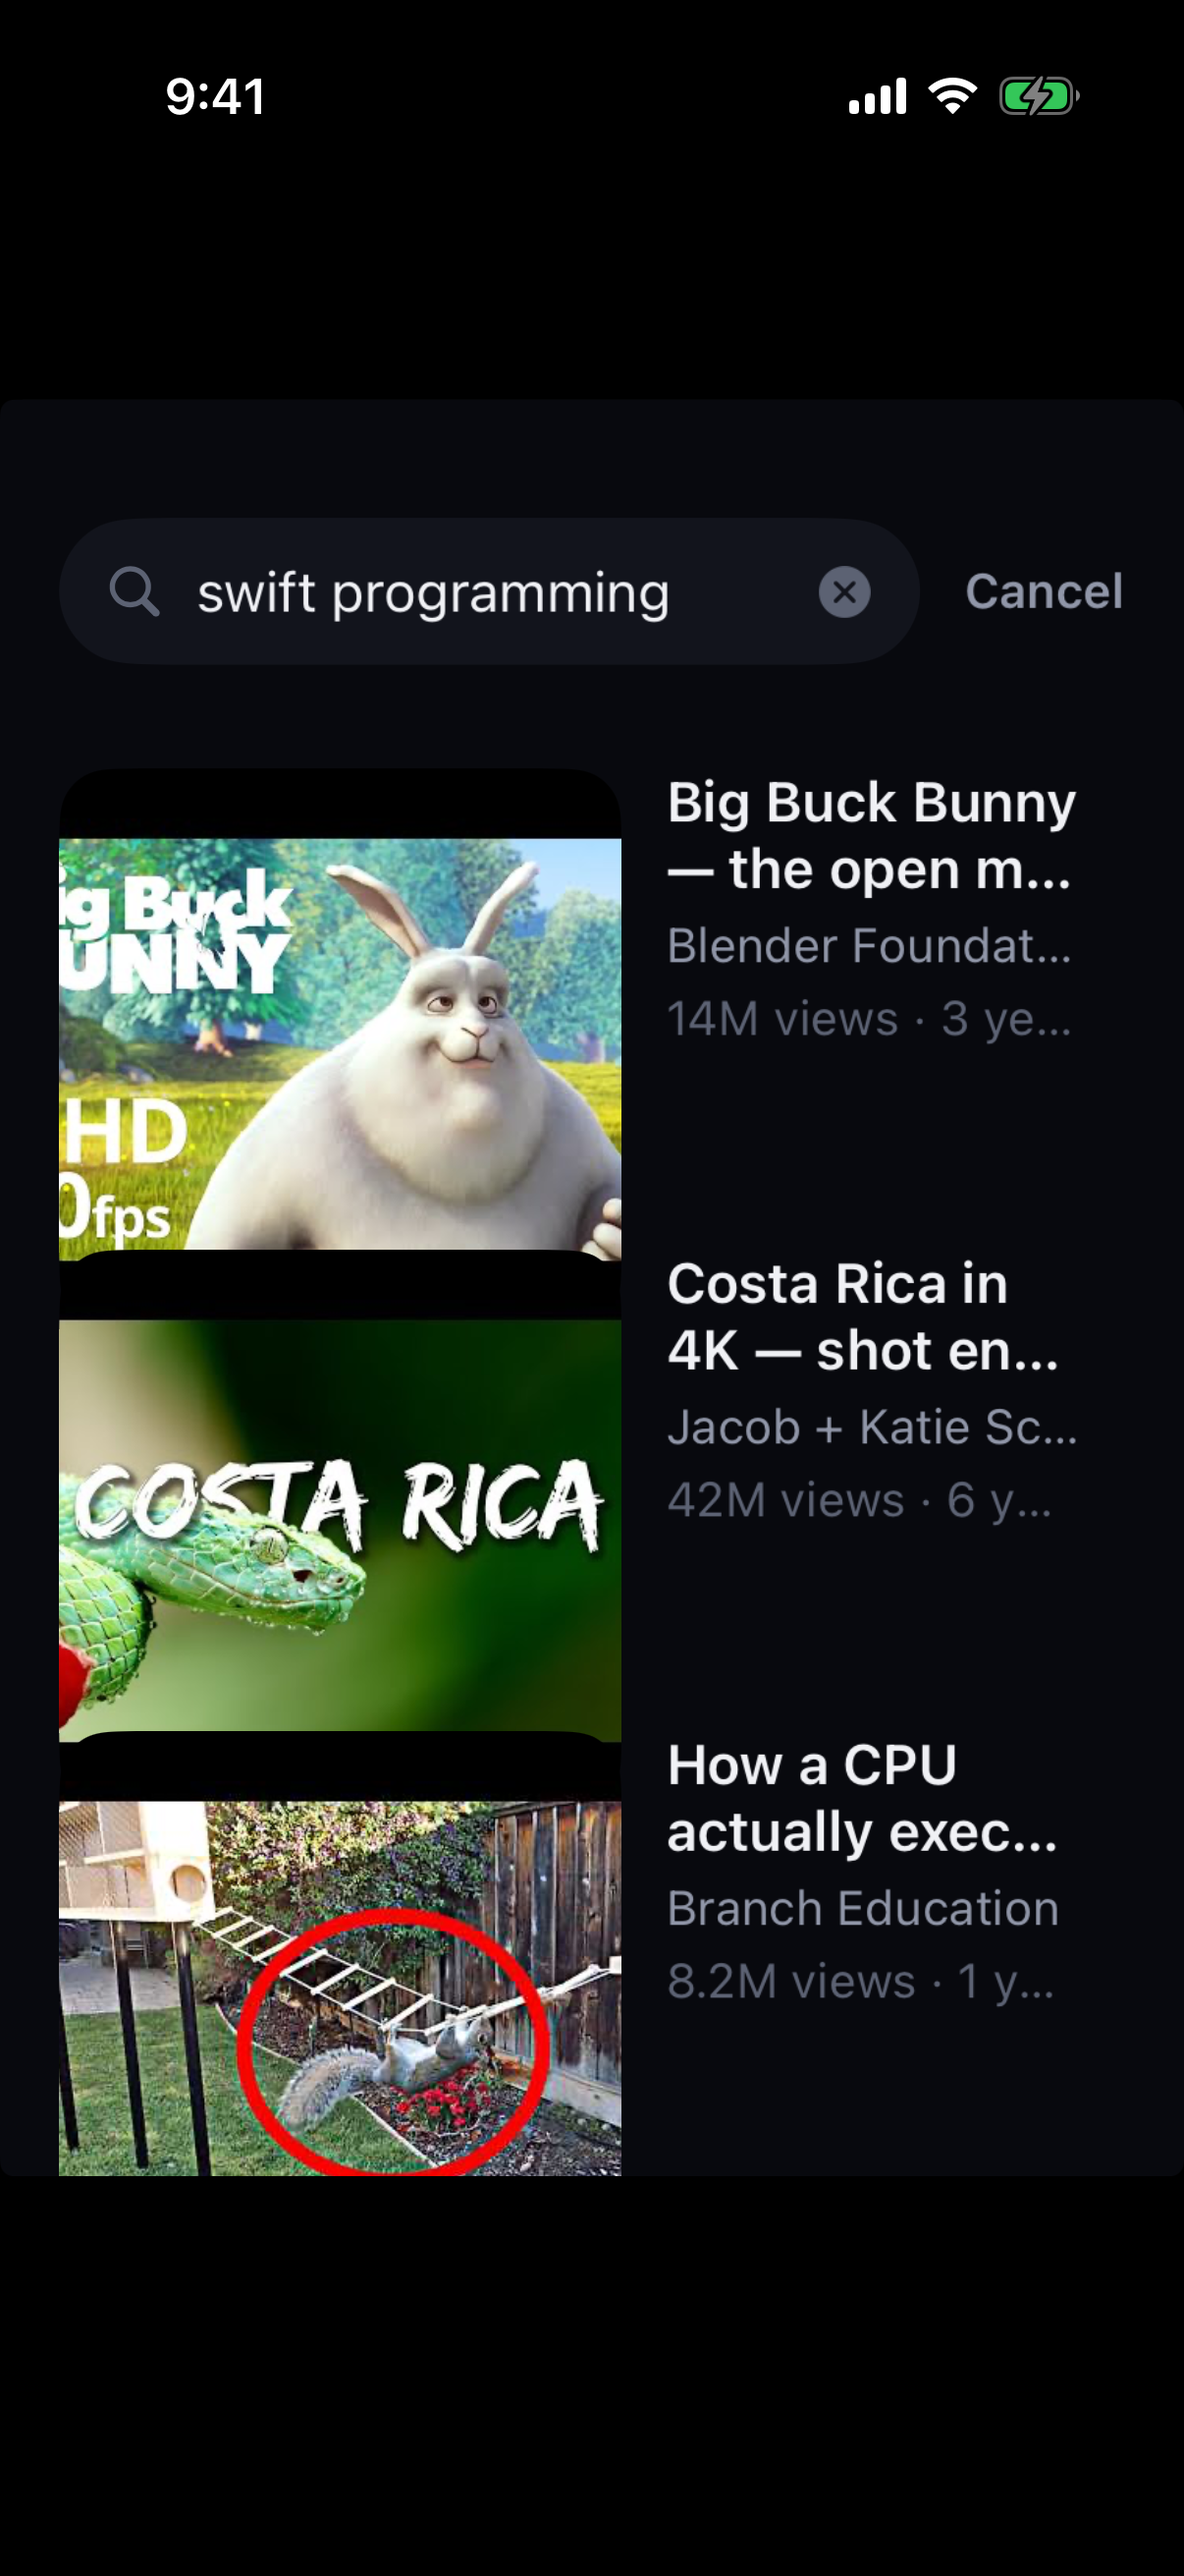
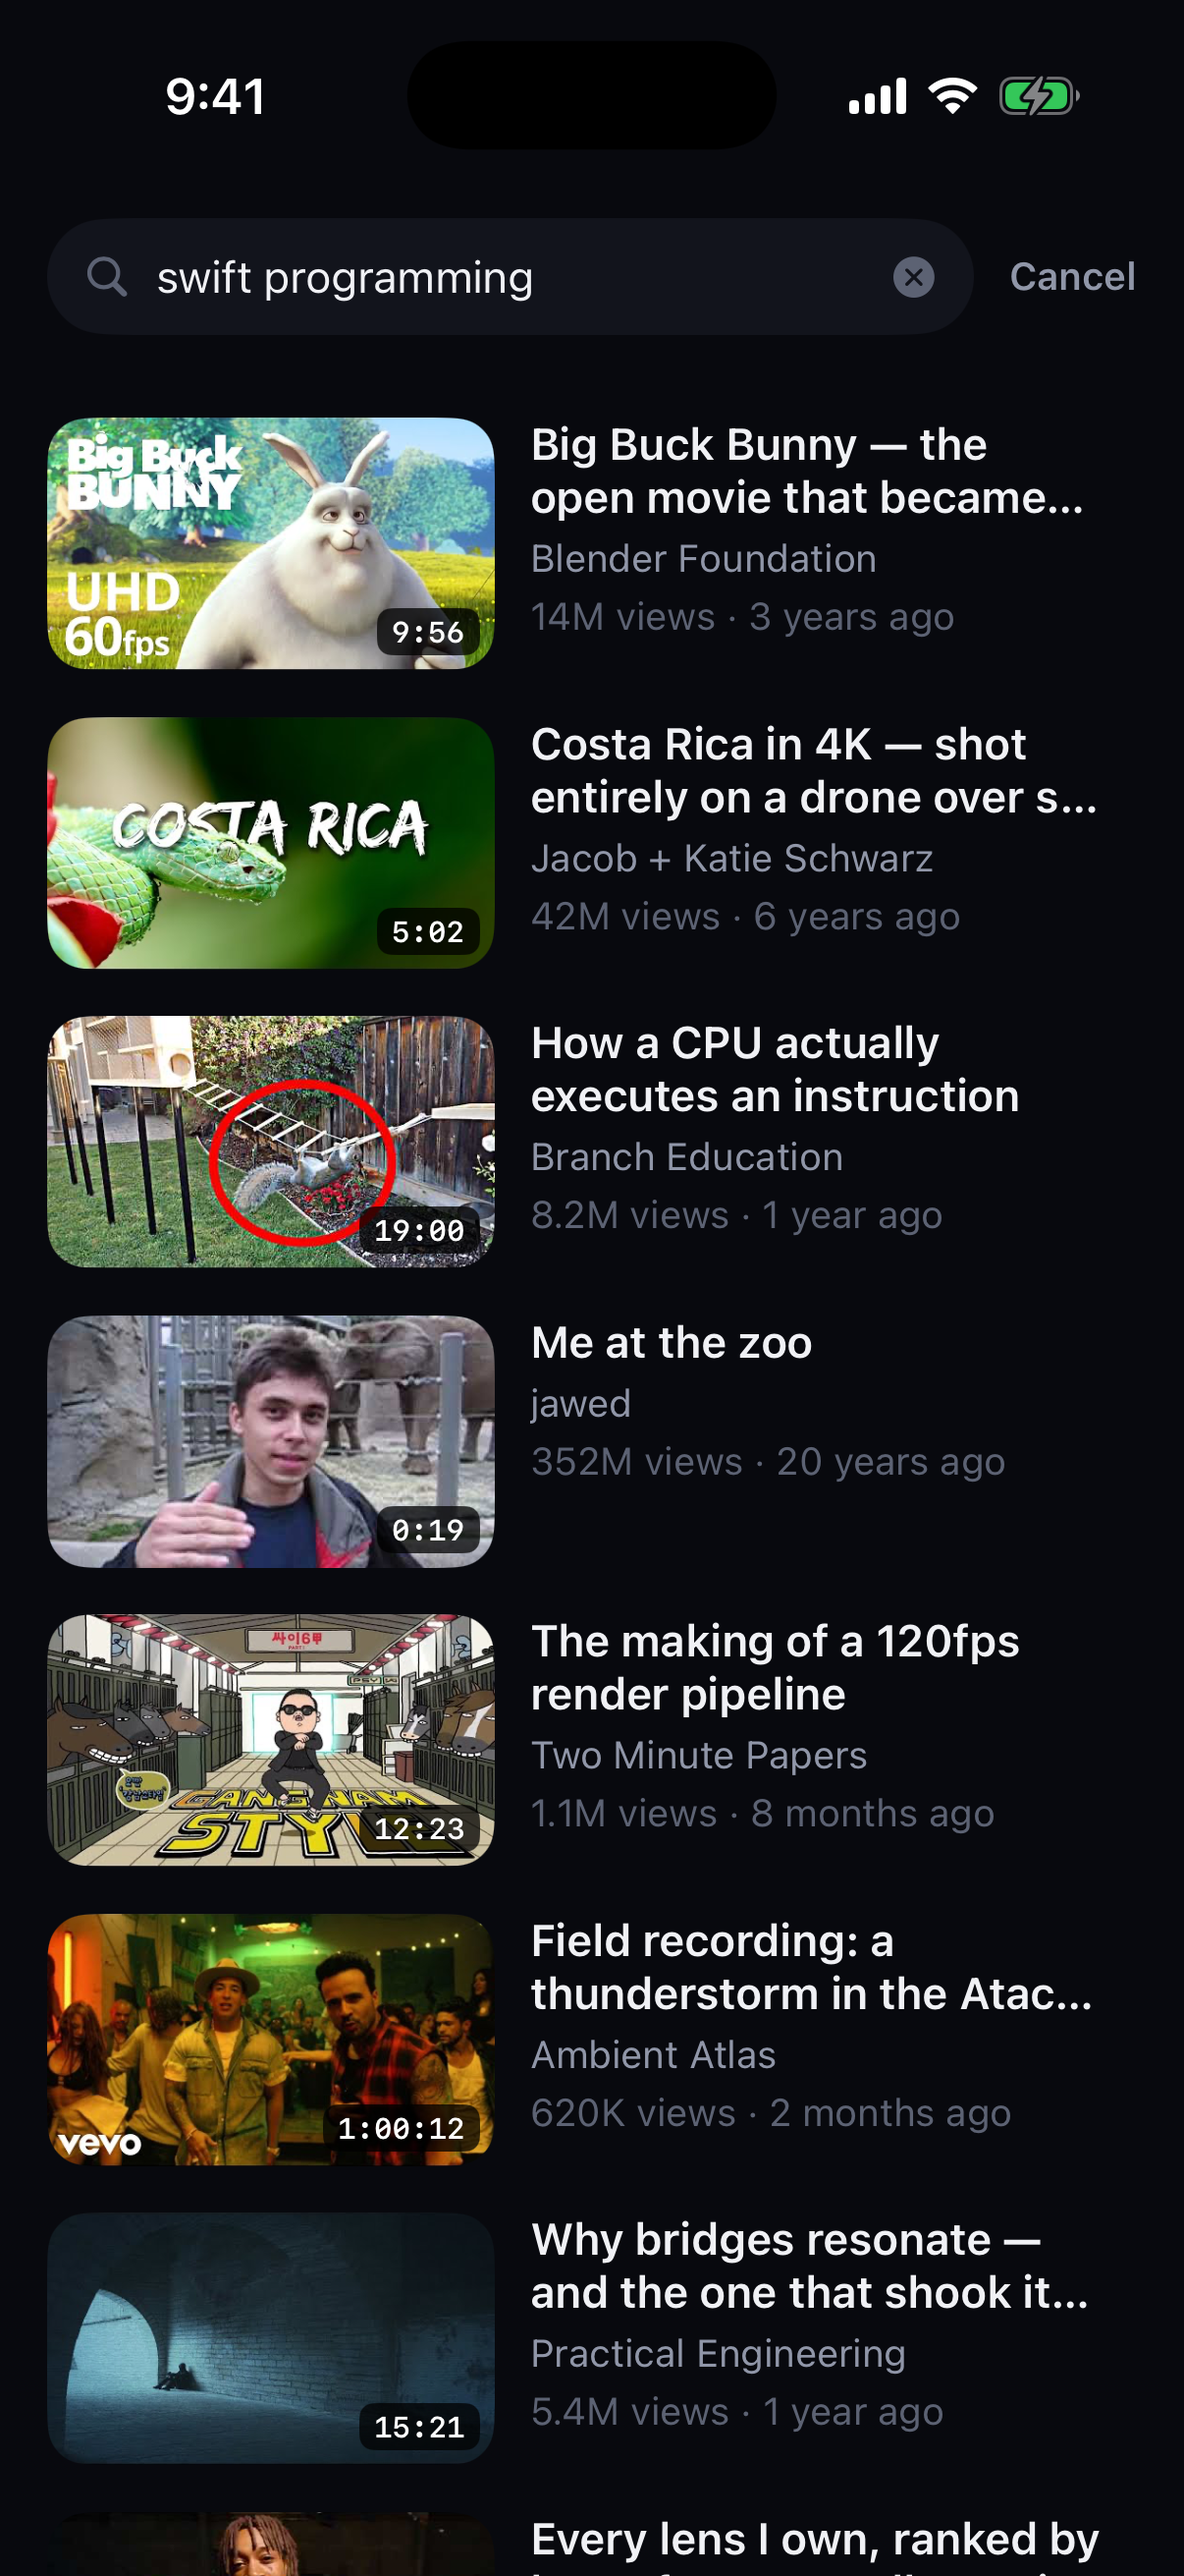
Fix thumbnails rendering washed out, and the glow's hard edge
Diagnosed from the captures: page background measured exactly #08090E as
designed while thumbnails measured (16,23,25) - so nothing was dimming the
screen, the images themselves were drawing at partial opacity. Both the hero
(which has an ambient glow) and a plain card (which doesn't) were affected,
which pointed at the one thing they share: RemoteImage.

Cause is the placeholder's repeatForever shimmer sharing a transaction with the
image's .transition(.opacity) - a repeating animation in the transaction leaves
the cross-fade stranded part-way, so thumbnails stay washed out. This would
happen on device too, not just in CI.

RemoteImage now owns an explicit opacity that settles at 1, renders cache hits
with no animation at all, and keeps the placeholder mounted underneath rather
than transitioning it out. Also masks the watch-screen glow so it fades instead
of ending on a rectangular edge behind the title.

diff --git a/Sources/Prism/Support/ImageLoader.swift b/Sources/Prism/Support/ImageLoader.swift
@@ -45,6 +45,13 @@ actor ImageLoader {
         "\(url.absoluteString)|\(Int(size.width))x\(Int(size.height))"
     }
 
+    /// Memory-cache lookup only — never touches the network.
+    ///
+    /// Lets a view render a cached image immediately instead of fading it in.
+    func cached(for url: URL, targetSize: CGSize) -> UIImage? {
+        memory.object(forKey: key(url, targetSize) as NSString)
+    }
+
     func image(for url: URL, targetSize: CGSize) async -> UIImage? {
         let k = key(url, targetSize)
 
@@ -125,26 +132,45 @@ struct RemoteImage<Placeholder: View>: View {
     @ViewBuilder var placeholder: () -> Placeholder
 
     @State private var image: UIImage?
-    @State private var didAnimate = false
+    @State private var opacity: Double = 0
 
     var body: some View {
         ZStack {
+            // The placeholder stays mounted underneath rather than being
+            // swapped out by a transition. A `.transition` here would be
+            // driven by the same transaction as the placeholder's own
+            // `repeatForever` shimmer, and a repeating animation in the
+            // transaction can leave the fade stranded part-way — thumbnails
+            // render permanently washed out.
+            if image == nil {
+                placeholder()
+            }
+
             if let image {
                 Image(uiImage: image)
                     .resizable()
                     .aspectRatio(contentMode: contentMode)
-                    .transition(.opacity)
-            } else {
-                placeholder()
+                    .opacity(opacity)
             }
         }
         .task(id: url) { await load() }
-        .motion(Motion.quick, value: image != nil)
     }
 
     private func load() async {
         guard let url else { return }
-        image = await ImageLoader.shared.image(for: url, targetSize: targetSize)
+
+        // A cache hit renders instantly — animating in something that was
+        // already in memory just reads as slowness.
+        if let cached = await ImageLoader.shared.cached(for: url, targetSize: targetSize) {
+            image = cached
+            opacity = 1
+            return
+        }
+
+        let loaded = await ImageLoader.shared.image(for: url, targetSize: targetSize)
+        guard let loaded else { return }
+        image = loaded
+        withAnimation(.easeOut(duration: 0.22)) { opacity = 1 }
     }
 }
 
@@ -152,6 +178,11 @@ struct RemoteImage<Placeholder: View>: View {
 /// that a screen full of them doesn't strobe.
 struct ShimmerPlaceholder: View {
     @State private var phase: CGFloat = -1
+
+    /// Screenshot runs render the plain fill. A `repeatForever` animation means
+    /// the render loop never settles, so a captured frame can catch the sweep
+    /// mid-flight and look like a rendering fault rather than a loading state.
+    private var animates: Bool { !DemoData.isEnabled }
 
     var body: some View {
         Rectangle()
@@ -168,6 +199,9 @@ struct ShimmerPlaceholder: View {
             }
             .clipped()
             .onAppear {
+                guard animates else { return }
+                // Scoped to its own transaction so the repeating animation
+                // can't be inherited by anything drawn alongside it.
                 withAnimation(.linear(duration: 1.4).repeatForever(autoreverses: false)) {
                     phase = 1
                 }

diff --git a/Sources/Prism/Features/Watch/WatchScreen.swift b/Sources/Prism/Features/Watch/WatchScreen.swift
@@ -110,6 +110,18 @@ struct WatchScreen: View {
             if settings.ambientGlow {
                 AmbientGlow(image: glow.image, intensity: 0.4, blur: 70)
                     .scaleEffect(1.3)
+                    // Without a mask the spill ends on a hard rectangular edge
+                    // that reads as a lighter panel behind the title.
+                    .mask(
+                        LinearGradient(
+                            stops: [
+                                .init(color: .white, location: 0),
+                                .init(color: .white, location: 0.55),
+                                .init(color: .clear, location: 1),
+                            ],
+                            startPoint: .top, endPoint: .bottom
+                        )
+                    )
             }
         }
         .overlay(alignment: .bottom) {
